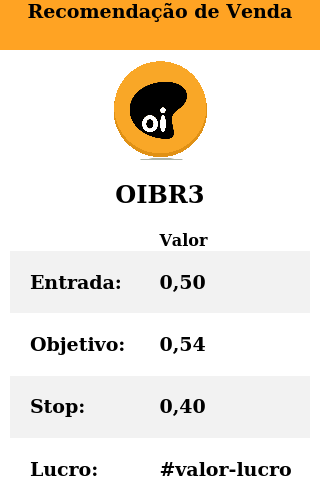
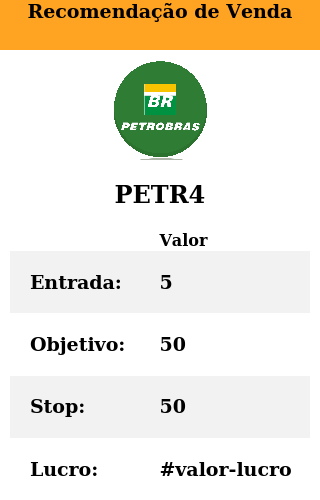
Generate img from template to send to telegram

diff --git a/trade-calls-front/src/app/components/calls/calls.component.html b/trade-calls-front/src/app/components/calls/calls.component.html
@@ -17,13 +17,13 @@
       <div class="modal-body">
         <form id="formCall" [formGroup]="formCall" (ngSubmit)="onSubmit()">
           <div class="form-group">
-            <label for="ativo">Ativo</label>
-            <input type="text" class="form-control" name="ativo" id="ativo" formControlName="ativo">
+            <label for="stock">Ativo</label>
+            <input type="text" class="form-control" name="stock" id="stock" formControlName="stock">
           </div>
 
           <div class="form-group">
-            <label class="my-1 mr-2" for="tipo">Tipo</label>
-            <select class="custom-select my-1 mr-sm-2" name="tipo" id="tipo" formControlName="tipo">
+            <label class="my-1 mr-2" for="type">Tipo</label>
+            <select class="custom-select my-1 mr-sm-2" name="type" id="type" formControlName="type">
               <option selected>Selecione</option>
               <option value="1">Compra</option>
               <option value="2">Venda</option>
@@ -31,8 +31,8 @@
           </div>
 
           <div class="form-group">
-            <label for="entrada">Preço entrada</label>
-            <input type="text" class="form-control" name="entrada" id="entrada" formControlName="entrada">
+            <label for="start">Preço entrada</label>
+            <input type="text" class="form-control" name="start" id="start" formControlName="start">
           </div>
 
           <div class="form-group">

diff --git a/telegram_notifications/template_teste.html b/telegram_notifications/template_teste.html
@@ -1,1 +1,1 @@
-<!DOCTYPE html><html lang="pt-br"><head><link rel="stylesheet" href="template.css"><meta charset="utf-8"></head><body><div class="header-box"><h3>Recomendação de Venda</h3></div><div class="box"><div class="img-box"><img src="OIBR3.png"></div><div class="stock-name"><h2>OIBR3</h2></div><table><tr><th></th><th>Valor</th></tr><tr><td><h3>Entrada: </h3></td><td><h3>0,50</h3></td></tr><tr><td><h3>Objetivo: </h3></td><td><h3>0,54</h3></td></tr><tr><td><h3>Stop: </h3></td><td><h3>0,40</h3></td></tr><tr><td><h3>Lucro: </h3></td><td><h3>#valor-lucro</h3></td></tr></table></div></body>
+<!DOCTYPE html><html lang="pt-br"><head><link rel="stylesheet" href="template.css"><meta charset="utf-8"></head><body><div class="header-box"><h3>Recomendação de Venda</h3></div><div class="box"><div class="img-box"><img src="PETR4.png"></div><div class="stock-name"><h2>PETR4</h2></div><table><tr><th></th><th>Valor</th></tr><tr><td><h3>Entrada: </h3></td><td><h3>5</h3></td></tr><tr><td><h3>Objetivo: </h3></td><td><h3>50</h3></td></tr><tr><td><h3>Stop: </h3></td><td><h3>50</h3></td></tr><tr><td><h3>Lucro: </h3></td><td><h3>#valor-lucro</h3></td></tr></table></div></body>

diff --git a/trade-calls-front/src/app/components/calls/calls.component.ts b/trade-calls-front/src/app/components/calls/calls.component.ts
@@ -21,9 +21,9 @@ export class CallsComponent implements OnInit {
 
   createForm(call: Call) {
     this.formCall = new FormGroup({
-      ativo: new FormControl(call.stock),
-      tipo: new FormControl(call.callType),
-      entrada: new FormControl(call.start),
+      stock: new FormControl(call.stock),
+      type: new FormControl(call.callType),
+      start: new FormControl(call.start),
       stopLoss: new FormControl(call.stopLoss),
       stopGain: new FormControl(call.stopGain),
       description: new FormControl(call.description)

diff --git a/trade-calls-front/src/app/services/call.service.ts b/trade-calls-front/src/app/services/call.service.ts
@@ -7,7 +7,7 @@ import {Observable} from 'rxjs';
   providedIn: 'root'
 })
 export class CallService {
-  private callsUrl = 'http://0.0.0.0:5000/api/v1/calls/5ebaa35f45bfeb3f5118d305';
+  private callsUrl = 'http://0.0.0.0:5000/api/v1/calls/5ec3d12a0af0cca40e8c3d51';
 
   constructor(private http: HttpClient) { }
 

diff --git a/trade-calls-front/src/app/services/group.service.ts b/trade-calls-front/src/app/services/group.service.ts
@@ -8,7 +8,7 @@ import {Observable} from 'rxjs';
 })
 export class GroupService {
 
-  private groupUrl = 'http://0.0.0.0:5000/api/v1/groups/5ebaa35f45bfeb3f5118d304';
+  private groupUrl = 'http://0.0.0.0:5000/api/v1/groups/5ec3d12a0af0cca40e8c3d50';
 
   constructor(private http: HttpClient) { }
 

diff --git a/telegram_notifications/api.py b/telegram_notifications/api.py
@@ -1,4 +1,5 @@
 import pika
+import json
 
 from settings import TELEGRAM_TOKEN
 from telegram import Bot
@@ -6,9 +7,21 @@ from image_generator import *
 
 
 def send_message(chat_id, message):
-    generate_image('OIBR3', 'venda', '0,60', '0,55', '0,50')
+    message = json.loads(message.decode())
+    stock = message["stock"]
+    type = "Compra" if message["type"] == 1 else "Venda"
+    start = message["start"]
+    stop_loss = message["stopLoss"]
+    stop_gain = message["stopGain"]
+    description = message["description"]
+
+    msg_to_send = "Nova call\n:Ativo: {}\nTipo: {}\nEntrada: {}\nStop Gain: {}\nStop Loss: {}".format(
+        stock, type, start, stop_gain, stop_loss
+    )
+
+    generate_image(stock, type, start, stop_loss, stop_gain)
     bot = Bot(token=TELEGRAM_TOKEN)
-    bot.sendMessage(chat_id=chat_id, text=message)
+    bot.sendMessage(chat_id=chat_id, text=msg_to_send)
     bot.sendPhoto(chat_id=chat_id, photo=open('out.png', 'rb'))
 
 
@@ -20,7 +33,7 @@ def subscribe_topic(channel, topic):
 
 
 def callback(ch, method, properties, body):
-    send_message('-1001380218326', str(body))
+    send_message('-1001380218326', body)
 
 
 if __name__ == "__main__":

diff --git a/api/api.py b/api/api.py
@@ -3,6 +3,7 @@ from flask import Flask, jsonify, request
 import pika
 from tradecalldatabase.database import Database
 from tradecalldatabase.schemas import GroupSchema, CallSchema
+import json
 
 app = Flask(__name__)
 app.config['JWT_SECRET_KEY'] = 'jwt-secret-string'
@@ -40,12 +41,11 @@ def post_call(group_id):
     :param group_id: Id of group
     :return: Confirmation
     """
-    message = str(request.get_json())
+    message = request.get_json()
 
-    logger.debug("Data received {}: ".format(message))
     channel.basic_publish(exchange='',
                           routing_key='trade_notifications',
-                          body=message)
+                          body=json.dumps(message))
 
     return jsonify({'data': "OK"})
 
